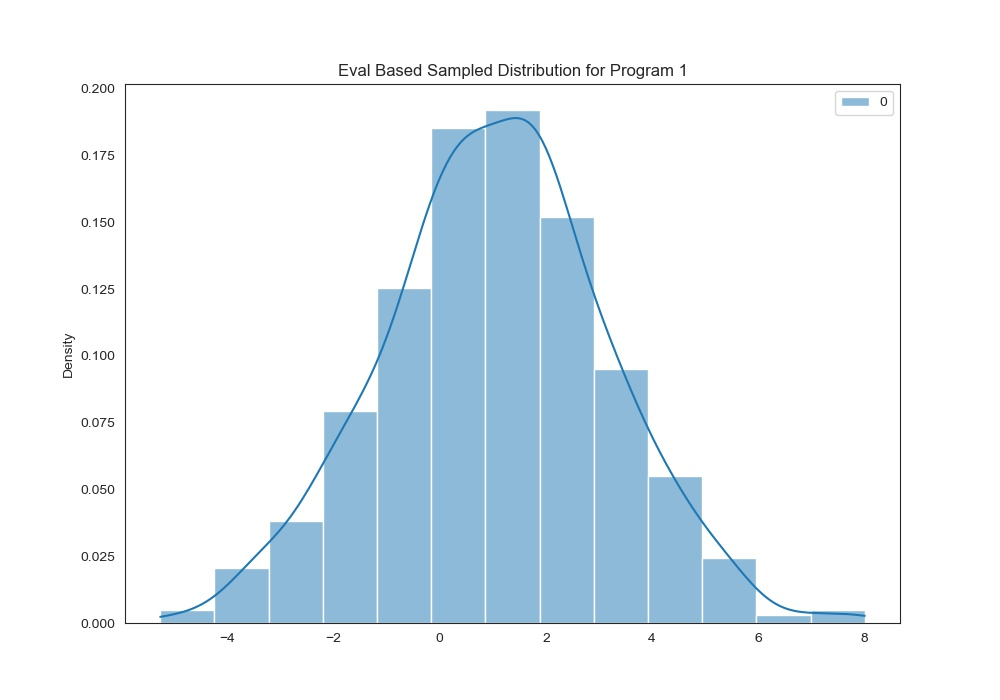
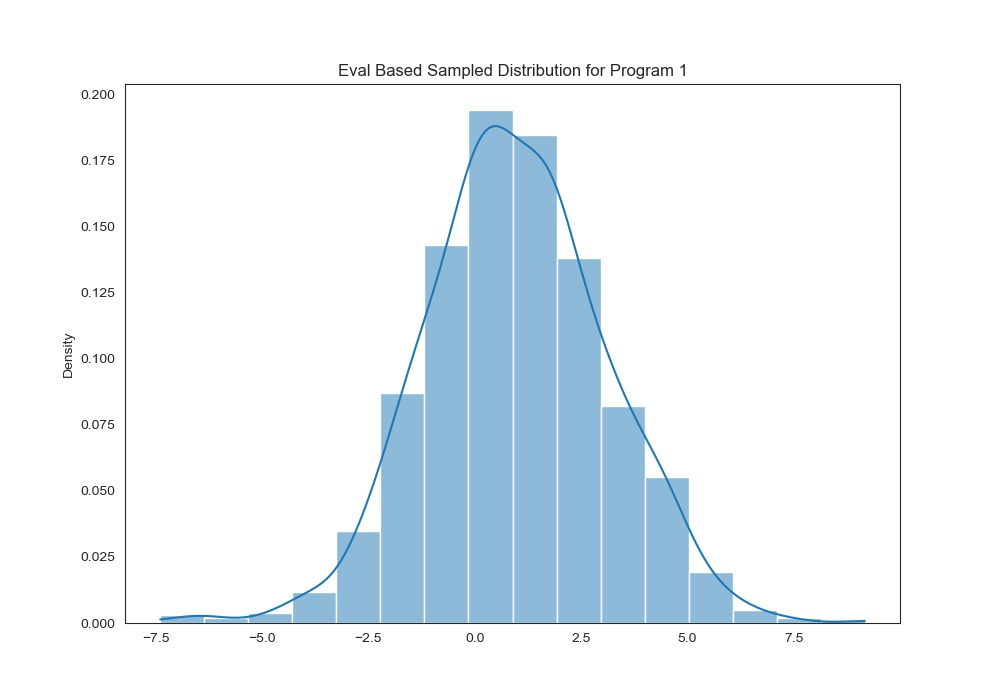
bbvi set up

diff --git a/evaluation_based_sampling.py b/evaluation_based_sampling.py
@@ -66,7 +66,6 @@ def evaluate_program_bool(exp_1,exp_2,exp_3, context, sig):
         return evaluate_program_help(exp_3, context, sig) 
 
 def evaluate_program_help(ast,context,sig=0):
-    print('ast? ', ast)
     # 8: case c
     if is_ast_c(ast):                                                    
         if pr.is_primitive(ast):                                             
@@ -178,7 +177,7 @@ if __name__ == '__main__':
         ast = daphne(['desugar', '-i', filename.format(i)])
         print('\n\n\nSample of prior of program {}:'.format(i))
 
-        #stream = get_stream(ast)
-        evaluate_program(ast)
+        stream = get_stream(ast)
+        #evaluate_program(ast)
     
-        #utils.draw_hists("Eval Based", i, stream, n_samples)
+        utils.draw_hists("Eval Based", i, stream, n_samples)

diff --git a/bbvi.py b/bbvi.py
@@ -1,0 +1,32 @@
+import os, torch, utils
+
+from daphne import daphne
+from collections.abc import Iterable
+from tests import is_tol, run_prob_test,load_truth
+
+dirn = os.path.dirname(os.path.abspath(__file__))
+
+
+
+
+
+
+
+if __name__ == '__main__':
+
+    #run_deterministic_tests()
+    #run_probabilistic_tests()
+
+
+    for i in range(1,5):
+
+        n_samples=1000
+
+        filename = dirn + '/programs/{}.daphne'
+        ast = daphne(['desugar', '-i', filename.format(i)])
+        print('\n\n\nSample of prior of program {}:'.format(i))
+
+
+        #evaluate_program(ast)
+    
+       # utils.draw_hists("Eval Based", i, stream, n_samples)

diff --git a/primitives.py b/primitives.py
@@ -6,17 +6,6 @@ import distributions as d
 import torch.distributions as dist
 
 
-
-# class Dirac(torch.distributions.Distribution):
-#     def __init__(self, val):
-#         self.x = val
-
-#     def sample(self):
-#         return
-    
-#     def log_prob(self, y):
-#         return torch.log(1 / (self.x - y))
-
 def append(a,e):
     try:
         return torch.cat((a,torch.tensor([e])))
